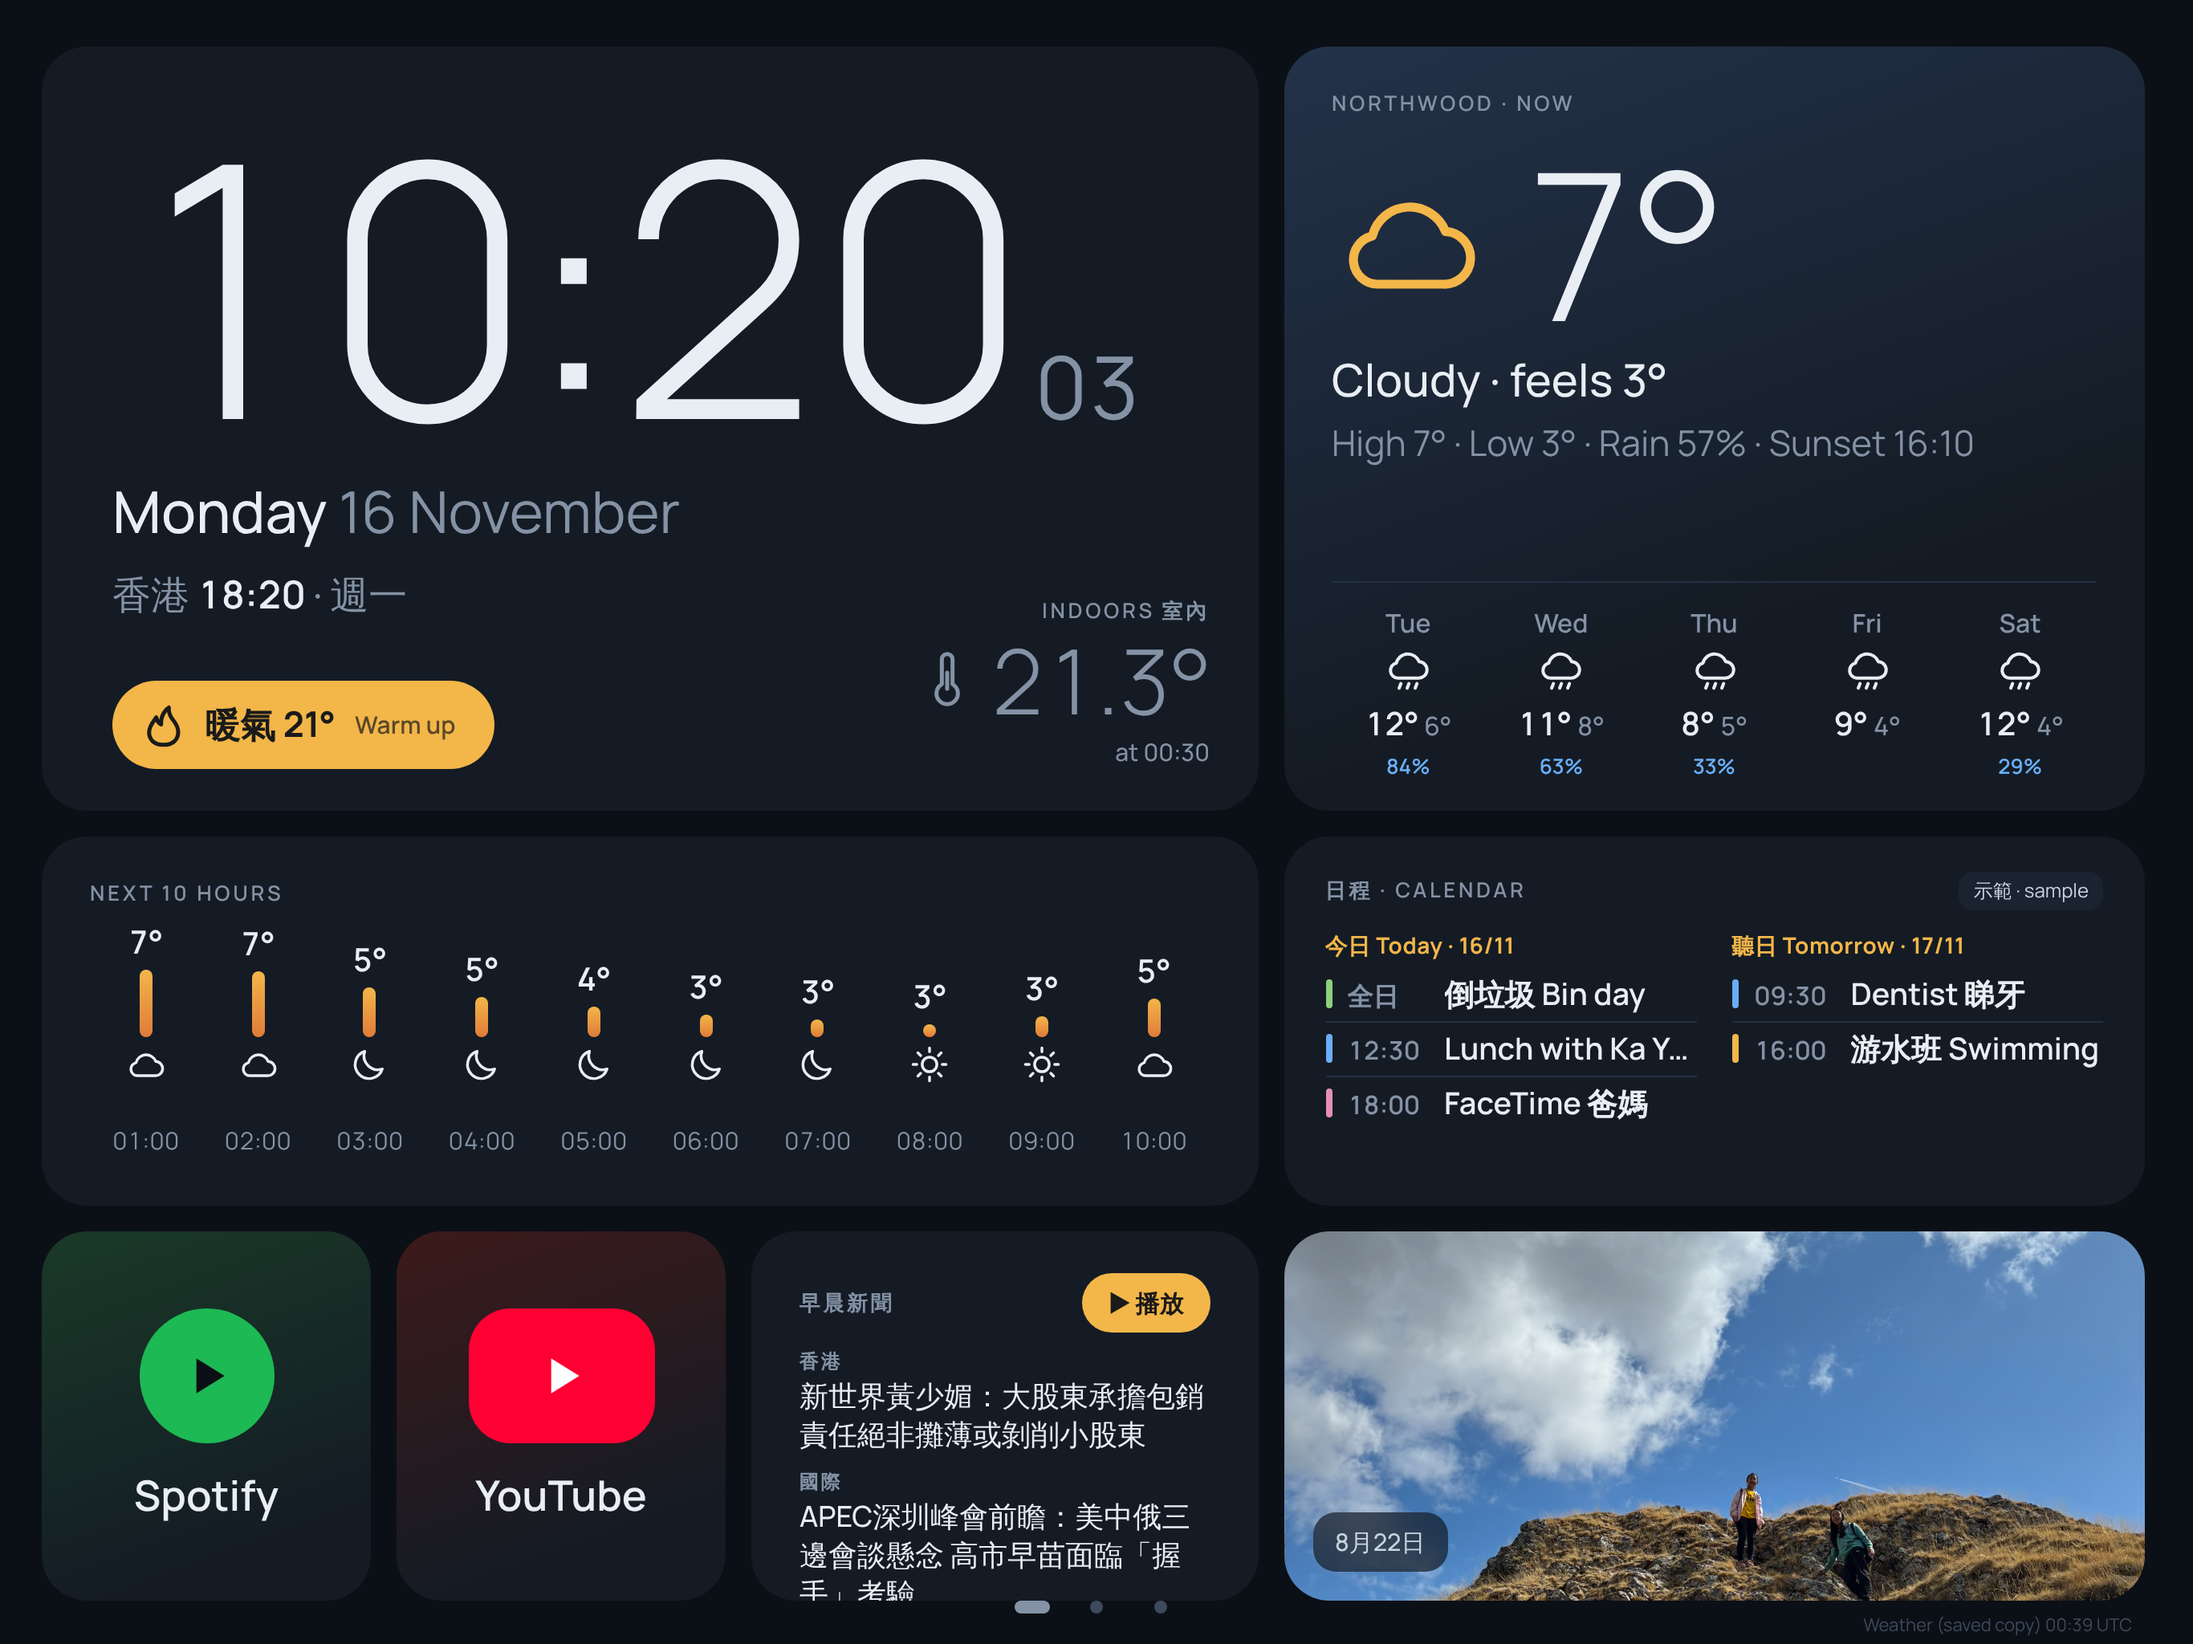
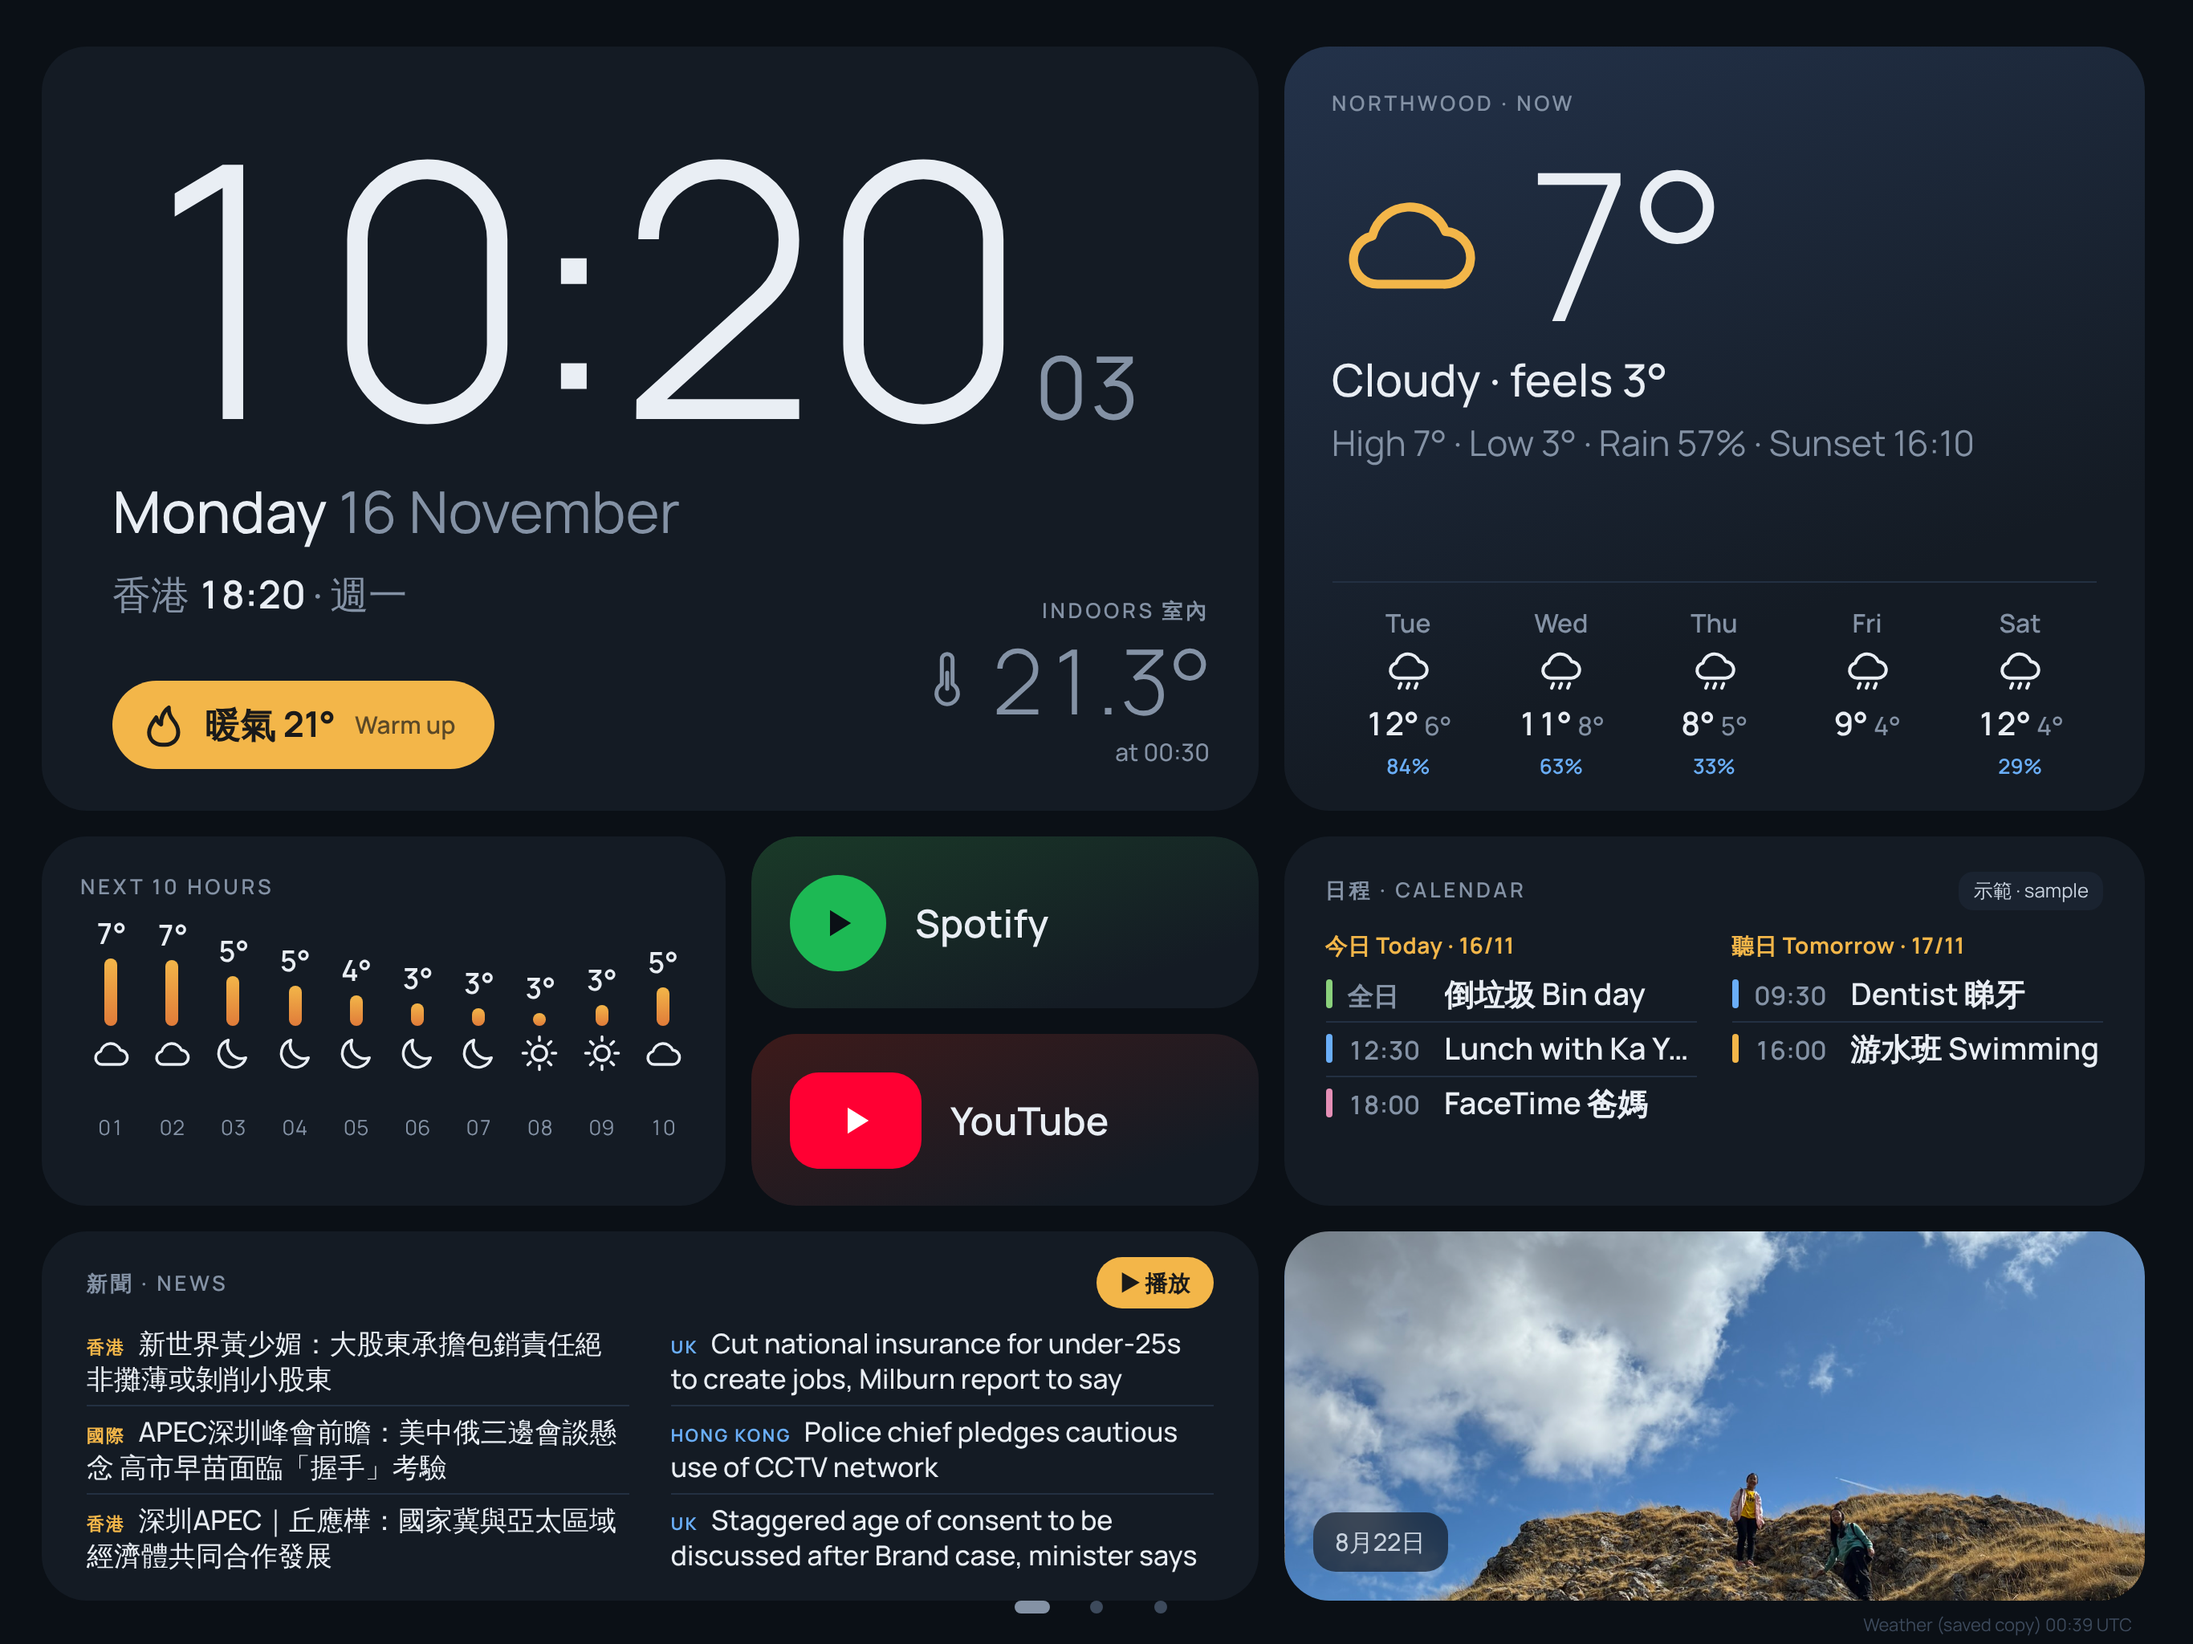
Hour labels, tighter news tile, skip RTHK programme notices
Claude-Session: https://claude.ai/code/session_01C3z1AZjaJGoK3GhAeWZkJj

diff --git a/index.html b/index.html
@@ -152,11 +152,12 @@ body.p2 #dots button.on i { background: rgba(107,42,42,.55); }
 .app .n { font-size: 24px; font-weight: 600; }
 .app .dot svg { width: 30px; height: 30px; }
 
-#news { grid-column: 1 / 8; grid-row: 7 / 9; padding: 20px 28px; }
+#news { grid-column: 1 / 8; grid-row: 7 / 9; padding: 16px 28px; }
+#news #play { padding: 6px 14px; font-size: 14px; }
 .nh { display: flex; justify-content: space-between; align-items: center; }
 #nws { display: grid; grid-template-columns: 1fr 1fr; gap: 0 26px; margin-top: 6px; }
 .ncol { min-width: 0; }
-.nw { padding: 7px 0; border-bottom: 1px solid var(--line); font-size: 17px; line-height: 1.3; font-weight: 500; display: -webkit-box; -webkit-box-orient: vertical; -webkit-line-clamp: 2; overflow: hidden; }
+.nw { padding: 5px 0; border-bottom: 1px solid var(--line); font-size: 17px; line-height: 1.3; font-weight: 500; display: -webkit-box; -webkit-box-orient: vertical; -webkit-line-clamp: 2; overflow: hidden; }
 .nw:last-child { border-bottom: 0; }
 .nw span { color: var(--sun); font-size: 11px; letter-spacing: .1em; font-weight: 700; margin-right: 8px; }
 .ncol.en .nw span { color: var(--rain); }
@@ -427,7 +428,7 @@ function renderWeather() {
   for (var j = start; j < start + 10 && j < h.time.length; j++) {
     var p = h.precipitation_probability[j] || 0, ht = 8 + (h.temperature_2m[j] - lo) / ((hi - lo) || 1) * 34;
     s += '<div class="h' + (p >= 40 ? ' wet' : '') + '"><span class="tv num">' + r(h.temperature_2m[j]) + '°</span><span class="bar" style="height:' + r(ht) + 'px"></span>' +
-      icon(wx(h.weather_code[j], h.is_day[j])[0], 26) + '<span class="p">' + (p >= 10 ? p + '%' : '') + '</span><span class="num">' + h.time[j].slice(11, 13) + ':00</span></div>';
+      icon(wx(h.weather_code[j], h.is_day[j])[0], 26) + '<span class="p">' + (p >= 10 ? p + '%' : '') + '</span><span class="num">' + h.time[j].slice(11, 13) + '</span></div>';
   }
   $('strip').innerHTML = s;
 

diff --git a/tools/build_news.py b/tools/build_news.py
@@ -1,6 +1,6 @@
 """Fetch Hong Kong and UK headlines (Traditional Chinese and English) and write news.json.
 Runs in GitHub Actions every 30 minutes. Standard library only."""
-import json, sys, urllib.request, xml.etree.ElementTree as ET
+import json, re, sys, urllib.request, xml.etree.ElementTree as ET
 from datetime import datetime, timezone
 
 # (label, feed, how many, language). The page shows Chinese and English side by side;
@@ -19,7 +19,7 @@ def titles(url, n):
     out = []
     for item in root.iter("item"):
         t = (item.findtext("title") or "").strip()
-        if t:
+        if t and not re.search(r"\bon TV3\d|^(Morning|Evening|Midday) News\b", t):  # skip RTHK programme notices
             out.append(t)
         if len(out) >= n:
             break
